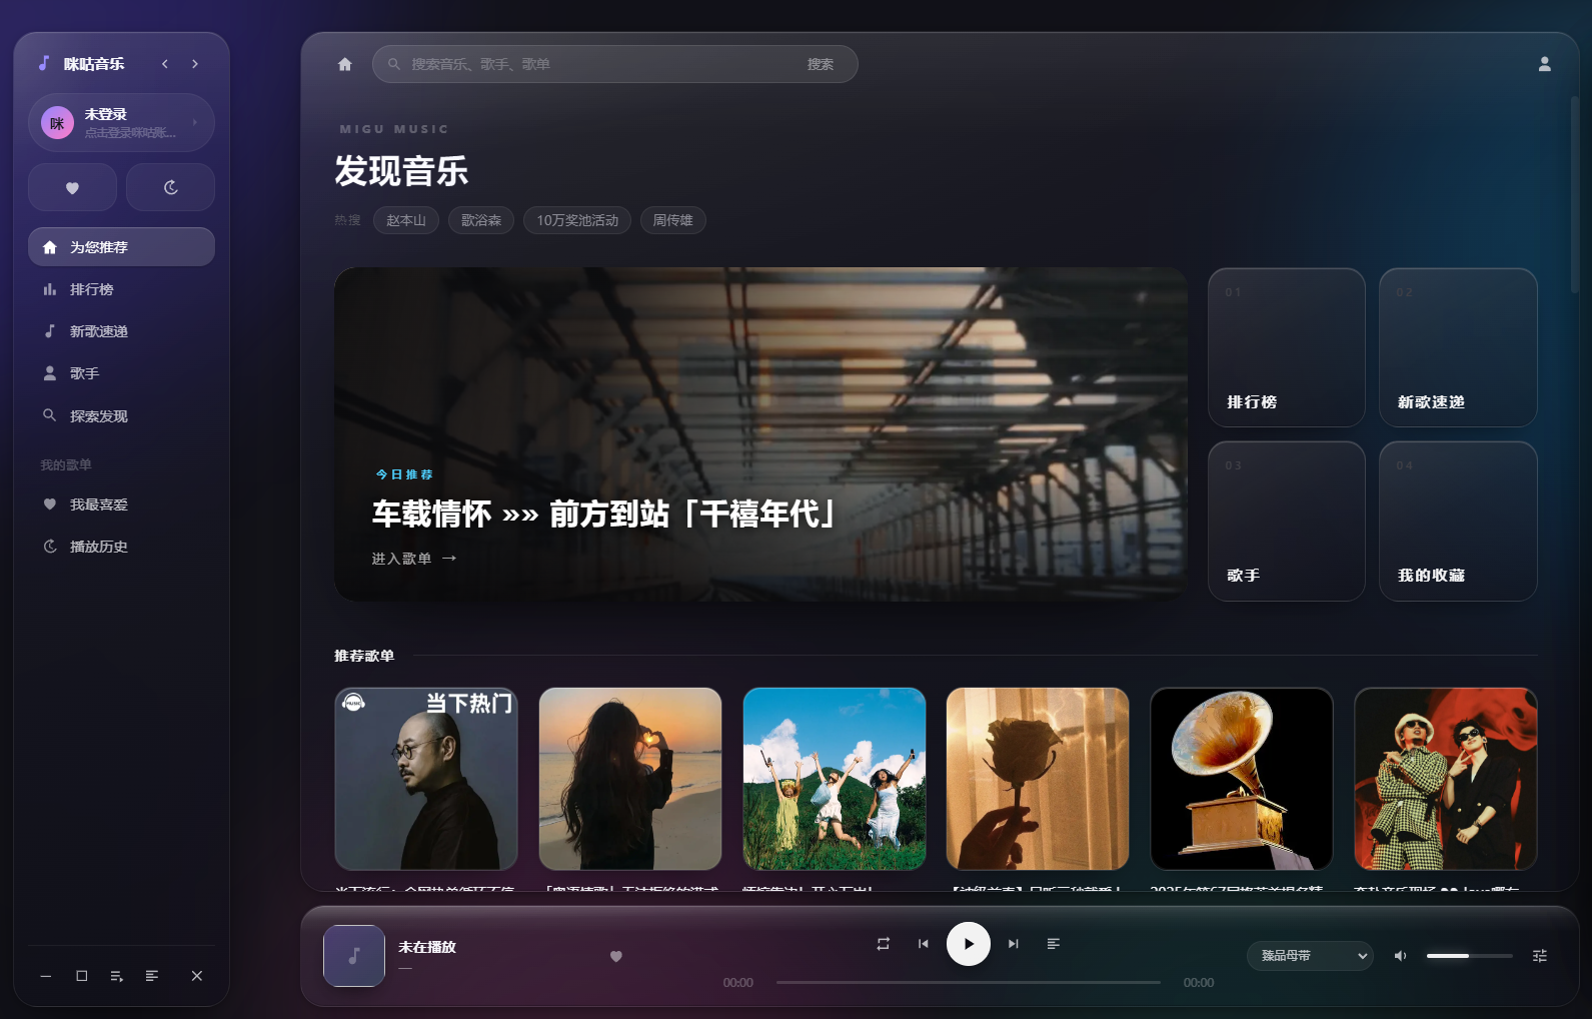
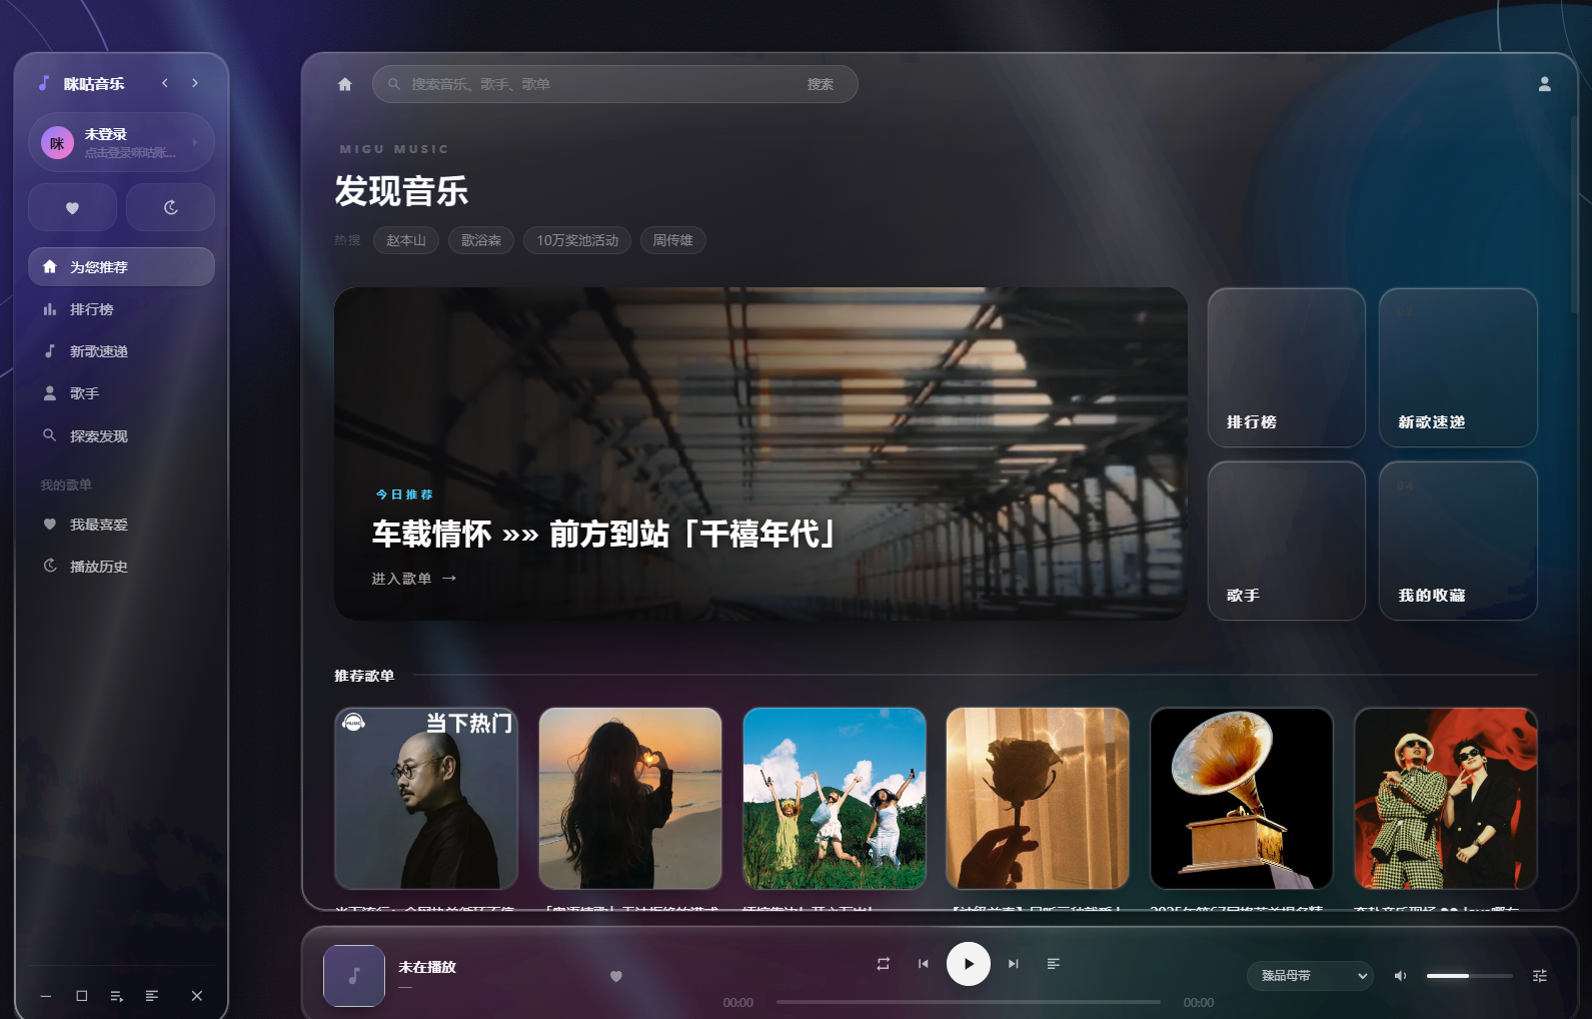
v1.4.0：真正的液态玻璃（折射，不是磨砂）
上一版只做了 blur —— 那是磨砂玻璃，不是液态玻璃。这次补上折射：

① 折射（核心）
   SVG feTurbulence 程序化生成平滑位移场 + feDisplacementMap，
   通过 backdrop-filter: ... url(#lg-refract) 作用于玻璃板。
   scale 用 SMIL 做 13–19s 呼吸（92→134→110→92），折射强度持续起伏。
   三档：sm(卡片 64) / 默认(面板 110) / lg(抽屉 150)。

② 可折射的几何（磨砂不需要，折射必须有）
   光场里新增 .gf-rings 四道同心环 + .gf-bands 三条 24° 斜向光带。
   光场去掉整体 blur —— 糊了就没东西可折射，柔化交给色斑自身渐变。

③ 棱边聚光
   ::before 用 conic-gradient + mask-composite:xor，只剩 1.5px 环带；
   @property --lg-edge-angle 让亮带沿边缘 22s 游走。

④ 流动高光
   ::after 一道 17s 往复扫过的斜向光带，mix-blend-mode:screen。

实测：
- 计算值含 url("#lg-refract")，4× 放大可见圆角 1.5px 亮线与背景光带错位
- 3 秒间隔两次截图像素差分 26,253 / 48,841 = 53.8% 在动

同时：blur 从 18px 降到 7px（太糊就看不见折射了）。

diff --git a/src/renderer/style.css b/src/renderer/style.css
@@ -901,11 +901,11 @@ a{color:inherit;text-decoration:none;cursor:pointer}
 :root{
   /* 玻璃色板：偏冷紫 + 青，不同于 EchoMusic 的灰 + 绿 */
   --glass-base:#0b0b12;
-  --glass-tint:rgba(16,16,24,.34);
+  --glass-tint:rgba(14,14,22,.28);
   --glass-tint-strong:rgba(255,255,255,.09);
   --glass-border:rgba(255,255,255,.13);
   --glass-border-soft:rgba(255,255,255,.07);
-  --glass-blur:46px;
+  --glass-blur:18px;
   --glass-saturate:142%;
   --ink-1:#f7f7fb;
   --ink-2:rgba(247,247,251,.72);
@@ -933,7 +933,9 @@ body{
 /* ── 光场：唯一的实体层 ── */
 .glass-field{
   position:fixed;inset:-20%;z-index:0;pointer-events:none;
-  filter:blur(64px) saturate(112%);
+  /* 关键：不再整体 blur。液态玻璃要能折射出形状，
+     所以色斑用自身径向渐变做软，几何元素保持锐利。 */
+  filter:saturate(118%);
   transform:translateZ(0);
 }
 .gf{
@@ -1008,14 +1010,28 @@ body{
 }
 
 /* ── 玻璃材质：所有面板共用 ── */
+.sidebar{
+  --lg-f:url(#lg-refract-lg);
+}
+.panel{
+  --lg-f:url(#lg-refract);
+}
 .sidebar,.panel{
   position:relative;isolation:isolate;
   border-radius:var(--r-glass);
   background:
-    linear-gradient(160deg, rgba(255,255,255,.07) 0%, rgba(255,255,255,.02) 40%, rgba(0,0,0,.06) 100%),
+    linear-gradient(160deg, rgba(255,255,255,.09) 0%, rgba(255,255,255,.025) 40%, rgba(0,0,0,.06) 100%),
     var(--glass-tint);
-  -webkit-backdrop-filter:blur(var(--glass-blur)) saturate(var(--glass-saturate)) brightness(1.06);
-  backdrop-filter:blur(var(--glass-blur)) saturate(var(--glass-saturate)) brightness(1.06);
+  /* 液态玻璃 = 模糊 + 提纯 + 亮度 + **折射位移**（最后一项是关键，磨砂玻璃没有） */
+  -webkit-backdrop-filter:blur(7px) saturate(150%) brightness(1.06) url(#lg-refract);
+  backdrop-filter:blur(7px) saturate(150%) brightness(1.06) url(#lg-refract);
+  /* 折射只能作用在 backdrop 上，内容是清晰的；再叠一层内阴影做玻璃厚度 */
+  box-shadow:
+    0 1px 0 0 rgba(255,255,255,.28) inset,
+    0 -1px 0 0 rgba(0,0,0,.28) inset,
+    0 0 0 1px rgba(255,255,255,.09),
+    0 26px 64px -30px rgba(0,0,0,.85),
+    0 3px 10px -3px rgba(0,0,0,.4);
   border:1px solid var(--glass-border-soft);
   box-shadow:
     0 1px 0 0 rgba(255,255,255,.16) inset,      /* 上缘亮边 */
@@ -1265,9 +1281,9 @@ body{
   position:fixed;right:var(--edge);top:calc(var(--edge) + 16px);bottom:var(--edge);
   width:min(420px, calc(100vw - var(--edge) * 2 - 20px));
   border-radius:var(--r-glass);
-  background:linear-gradient(160deg, rgba(255,255,255,.09), rgba(255,255,255,.02) 42%, rgba(0,0,0,.1)), rgba(18,18,26,.52);
-  -webkit-backdrop-filter:blur(40px) saturate(170%);
-  backdrop-filter:blur(40px) saturate(170%);
+  background:linear-gradient(160deg, rgba(255,255,255,.11), rgba(255,255,255,.025) 42%, rgba(0,0,0,.12)), rgba(16,16,24,.42);
+  -webkit-backdrop-filter:blur(8px) saturate(160%) brightness(1.05) url(#lg-refract-lg);
+  backdrop-filter:blur(8px) saturate(160%) brightness(1.05) url(#lg-refract-lg);
   border:1px solid var(--glass-border);
   box-shadow:0 1px 0 rgba(255,255,255,.16) inset, -20px 0 60px -30px rgba(0,0,0,.9);
   transform:translateX(calc(100% + 24px));
@@ -1291,9 +1307,9 @@ body{
   position:fixed;left:50%;bottom:120px;transform:translate(-50%,16px) scale(.98);
   display:flex;align-items:center;gap:12px;
   padding:13px 15px;border-radius:18px;
-  background:rgba(24,24,32,.68);
-  -webkit-backdrop-filter:blur(30px) saturate(160%);
-  backdrop-filter:blur(30px) saturate(160%);
+  background:rgba(22,22,30,.6);
+  -webkit-backdrop-filter:blur(6px) saturate(160%) url(#lg-refract-sm);
+  backdrop-filter:blur(6px) saturate(160%) url(#lg-refract-sm);
   border:1px solid var(--glass-border);
   box-shadow:0 1px 0 rgba(255,255,255,.18) inset, 0 20px 50px -20px rgba(0,0,0,.9);
   opacity:0;pointer-events:none;
@@ -1374,14 +1390,15 @@ body{
 .view.is-home .hrk,
 .view.is-home .hp-img,
 .view.is-home .hrow{
-  background:linear-gradient(150deg, rgba(255,255,255,.10) 0%, rgba(255,255,255,.03) 45%, rgba(0,0,0,.05) 100%);
-  border:1px solid rgba(255,255,255,.10);
+  background:linear-gradient(150deg, rgba(255,255,255,.12) 0%, rgba(255,255,255,.035) 45%, rgba(0,0,0,.05) 100%);
+  border:1px solid rgba(255,255,255,.12);
   box-shadow:
-    0 1px 0 rgba(255,255,255,.18) inset,
-    0 -1px 0 rgba(0,0,0,.18) inset,
-    0 10px 26px -16px rgba(0,0,0,.8);
-  -webkit-backdrop-filter:blur(16px) saturate(150%);
-  backdrop-filter:blur(16px) saturate(150%);
+    0 1px 0 rgba(255,255,255,.24) inset,
+    0 -1px 0 rgba(0,0,0,.2) inset,
+    0 0 0 1px rgba(255,255,255,.05),
+    0 12px 30px -18px rgba(0,0,0,.85);
+  -webkit-backdrop-filter:blur(5px) saturate(160%) brightness(1.05) url(#lg-refract-sm);
+  backdrop-filter:blur(5px) saturate(160%) brightness(1.05) url(#lg-refract-sm);
 }
 .view.is-home .hp-img{
   border-radius:16px;aspect-ratio:1;
@@ -1579,3 +1596,126 @@ table.songs tbody tr:hover td{color:var(--ink-1)}
 .empty svg{fill:var(--ink-4);opacity:.5}
 .loading{color:var(--ink-3)}
 .spin{border-color:rgba(255,255,255,.16);border-top-color:var(--spec-1)}
+
+
+/* ══ 可折射的几何层 ══
+   玻璃要「看得出是玻璃」，背后必须有清晰的边缘线：
+   同心环 + 斜向光带。这些形状会被 backdrop-filter 的位移图推开，
+   形成真实的折射错位。 */
+
+/* 同心环：藏在左侧与右下 */
+.gf-rings{position:absolute;inset:0;pointer-events:none}
+.gf-rings i{
+  position:absolute;display:block;border-radius:50%;
+  border:1.5px solid rgba(255,255,255,.14);
+}
+.gf-rings i:nth-child(1){width:34vw;height:34vw;left:-6vw;top:8vh;border:2px solid rgba(180,170,255,.42)}
+.gf-rings i:nth-child(2){width:24vw;height:24vw;left:1vw;top:16vh;border:1.5px solid rgba(180,170,255,.3)}
+.gf-rings i:nth-child(3){width:30vw;height:30vw;right:-4vw;top:-2vh;border:2px solid rgba(170,235,255,.38)}
+.gf-rings i:nth-child(4){width:20vw;height:20vw;right:2vw;top:4vh;border:1.5px solid rgba(170,235,255,.26)}
+
+/* 斜向光带：三条，45°，宽 60~110px */
+.gf-bands{position:absolute;inset:-30%;pointer-events:none;opacity:.85}
+.gf-bands i{
+  position:absolute;display:block;
+  background:linear-gradient(90deg,transparent,rgba(255,255,255,.20),transparent);
+  transform:rotate(-24deg);
+}
+.gf-bands i:nth-child(1){width:110px;height:180%;left:18%;top:-20%}
+.gf-bands i:nth-child(2){width:70px;height:180%;left:44%;top:-20%;background:linear-gradient(90deg,transparent,rgba(159,232,255,.22),transparent)}
+.gf-bands i:nth-child(3){width:150px;height:180%;left:66%;top:-20%;background:linear-gradient(90deg,transparent,rgba(255,255,255,.14),transparent)}
+
+/* 色斑保持软，但降低不透明度，让几何层显出来 */
+.gf-1{opacity:.42}
+.gf-2{opacity:.34}
+.gf-3{opacity:.26}
+.gf-4{opacity:.2}
+
+
+/* ══ 液态玻璃的两个灵魂细节 ══
+   ① 棱边聚光：真实玻璃边缘会把光聚成一条亮带（不是均匀描边）
+   ② 流动高光：光斑缓慢扫过，玻璃看起来是「液体」而不是「板子」 */
+
+/* ① 棱边聚光：用 mask 把高光限制在边缘 2px 环带，中间透明 */
+.sidebar::before,.panel::before{
+  content:"";position:absolute;inset:0;border-radius:inherit;pointer-events:none;z-index:2;
+  padding:1.5px;
+  background:
+    conic-gradient(from 200deg at 50% 50%,
+      rgba(255,255,255,.55) 0deg,
+      rgba(255,255,255,.06) 70deg,
+      rgba(255,255,255,.02) 140deg,
+      rgba(255,255,255,.30) 200deg,
+      rgba(255,255,255,.04) 260deg,
+      rgba(255,255,255,.44) 330deg,
+      rgba(255,255,255,.55) 360deg);
+  /* Chromium 里 mask 的 exclude 需要用 composite 语义表达：
+     content-box 之外保留，内部挖空 → 只剩 1.5px 环带 */
+  -webkit-mask:linear-gradient(#000 0 0) content-box, linear-gradient(#000 0 0);
+  -webkit-mask-composite:xor;
+  mask:linear-gradient(#000 0 0) content-box, linear-gradient(#000 0 0);
+  mask-composite:exclude;
+  opacity:.9;
+}
+
+/* ② 流动高光：一道 120° 的斜向光带，18s 转一圈，被面板裁切 */
+.sidebar::after,.panel::after{
+  content:"";position:absolute;inset:-40%;border-radius:inherit;pointer-events:none;z-index:1;
+  background:linear-gradient(105deg,
+    transparent 38%,
+    rgba(255,255,255,.055) 46%,
+    rgba(255,255,255,.13) 50%,
+    rgba(255,255,255,.055) 54%,
+    transparent 62%);
+  animation:sheetSweep 17s cubic-bezier(.42,0,.58,1) infinite;
+  mix-blend-mode:screen;opacity:.9;
+}
+@keyframes sheetSweep{
+  0%   {transform:translate3d(-58%,0,0) rotate(0.001deg)}
+  50%  {transform:translate3d(58%,0,0) rotate(0.001deg)}
+  100% {transform:translate3d(-58%,0,0) rotate(0.001deg)}
+}
+
+/* 面板内容要压在光带之上 */
+.panel > .topbar,.panel > .view,
+.sidebar > .sb-head,.sidebar > .sb-profile,.sidebar > .sb-shortcut,
+.sidebar > .sb-nav,.sidebar > .sb-group,.sidebar > .sb-bottom{
+  position:relative;z-index:4;
+}
+
+@media (prefers-reduced-motion:reduce){
+  .sidebar::after,.panel::after{animation:none;opacity:.4}
+}
+
+
+/* ══ 棱边高光绕玻璃旋转 ══
+   用 @property 让自定义属性可插值，conic-gradient 的起始角就能动，
+   看起来像一条光沿着玻璃边缘慢慢游走。 */
+@property --lg-edge-angle{
+  syntax:'<angle>';
+  inherits:false;
+  initial-value:200deg;
+}
+.sidebar::before,.panel::before{
+  animation:edgeOrbit 22s linear infinite;
+}
+@keyframes edgeOrbit{
+  from{--lg-edge-angle:0deg}
+  to  {--lg-edge-angle:360deg}
+}
+/* 环带渐变改用变量控制起始角 */
+.sidebar::before,.panel::before{
+  background:
+    conic-gradient(from var(--lg-edge-angle) at 50% 50%,
+      rgba(255,255,255,.55) 0deg,
+      rgba(255,255,255,.05) 70deg,
+      rgba(255,255,255,.015) 140deg,
+      rgba(255,255,255,.32) 200deg,
+      rgba(255,255,255,.04) 260deg,
+      rgba(255,255,255,.46) 330deg,
+      rgba(255,255,255,.55) 360deg);
+}
+
+@media (prefers-reduced-motion:reduce){
+  .sidebar::before,.panel::before{animation:none}
+}

diff --git a/src/renderer/index.html b/src/renderer/index.html
@@ -9,10 +9,40 @@
 <link rel="stylesheet" href="lattice-lyrics.css" />
 </head>
 <body>
+  <!-- 液态玻璃折射滤镜
+       feTurbulence 程序化生成平滑位移场；feDisplacementMap 的 scale 用 SMIL
+       做 11–19s 的呼吸动画 —— 这是"液态"的来源：玻璃不是静止的，
+       折射强度像液体表面一样缓慢起伏。三个档位对应面板尺寸。 -->
+  <svg class="glass-filters" width="0" height="0" aria-hidden="true" focusable="false">
+    <defs>
+      <filter id="lg-refract-sm" x="0%" y="0%" width="100%" height="100%">
+        <feTurbulence type="fractalNoise" baseFrequency="0.004" numOctaves="1" seed="17" result="n"/>
+        <feDisplacementMap in="SourceGraphic" in2="n" scale="52" xChannelSelector="R" yChannelSelector="G">
+          <animate attributeName="scale" values="44;68;52;44" dur="13s" repeatCount="indefinite" calcMode="spline" keySplines=".42 0 .58 1;.42 0 .58 1;.42 0 .58 1"/>
+        </feDisplacementMap>
+      </filter>
+      <filter id="lg-refract" x="0%" y="0%" width="100%" height="100%">
+        <feTurbulence type="fractalNoise" baseFrequency="0.003" numOctaves="1" seed="11" result="n"/>
+        <feDisplacementMap in="SourceGraphic" in2="n" scale="110" xChannelSelector="R" yChannelSelector="G">
+          <animate attributeName="scale" values="92;134;110;92" dur="17s" repeatCount="indefinite" calcMode="spline" keySplines=".42 0 .58 1;.42 0 .58 1;.42 0 .58 1"/>
+        </feDisplacementMap>
+      </filter>
+      <filter id="lg-refract-lg" x="0%" y="0%" width="100%" height="100%">
+        <feTurbulence type="fractalNoise" baseFrequency="0.0022" numOctaves="2" seed="5" result="n"/>
+        <feDisplacementMap in="SourceGraphic" in2="n" scale="150" xChannelSelector="R" yChannelSelector="G">
+          <animate attributeName="scale" values="126;182;150;126" dur="19s" repeatCount="indefinite" calcMode="spline" keySplines=".42 0 .58 1;.42 0 .58 1;.42 0 .58 1"/>
+        </feDisplacementMap>
+      </filter>
+    </defs>
+  </svg>
+
 <div id="app">
   <!-- 玻璃背后的光场：液态玻璃必须有流动的色彩才有折射感 -->
   <div class="glass-field" aria-hidden="true">
     <i class="gf gf-1"></i><i class="gf gf-2"></i><i class="gf gf-3"></i><i class="gf gf-4"></i>
+    <!-- 清晰几何：玻璃折射必须有可折射的形状，否则只有模糊 -->
+    <div class="gf-rings"><i></i><i></i><i></i><i></i></div>
+    <div class="gf-bands"><i></i><i></i><i></i></div>
     <div class="gf-noise"></div>
   </div>
 
